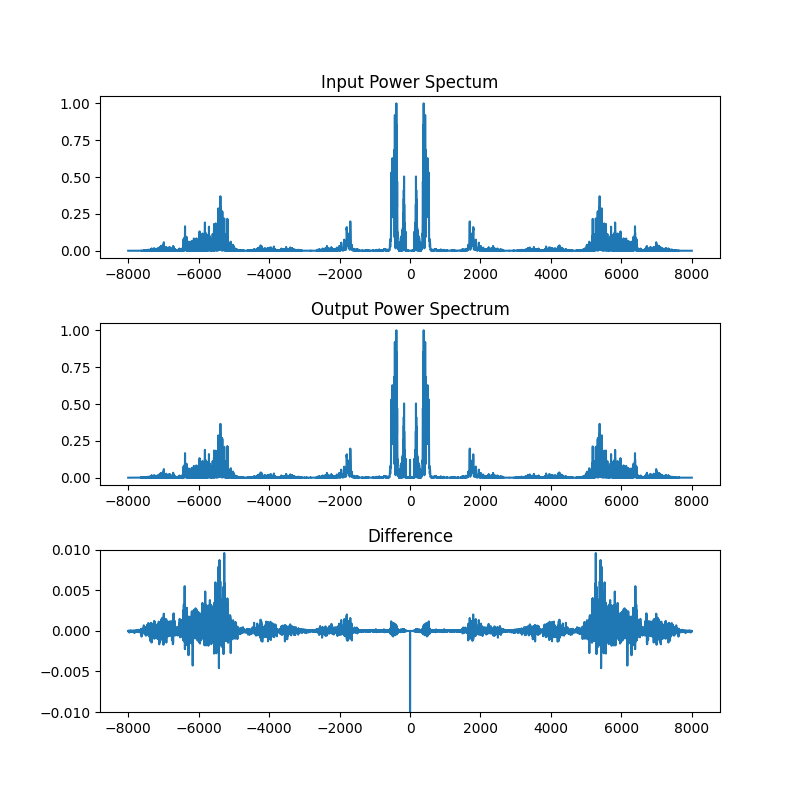
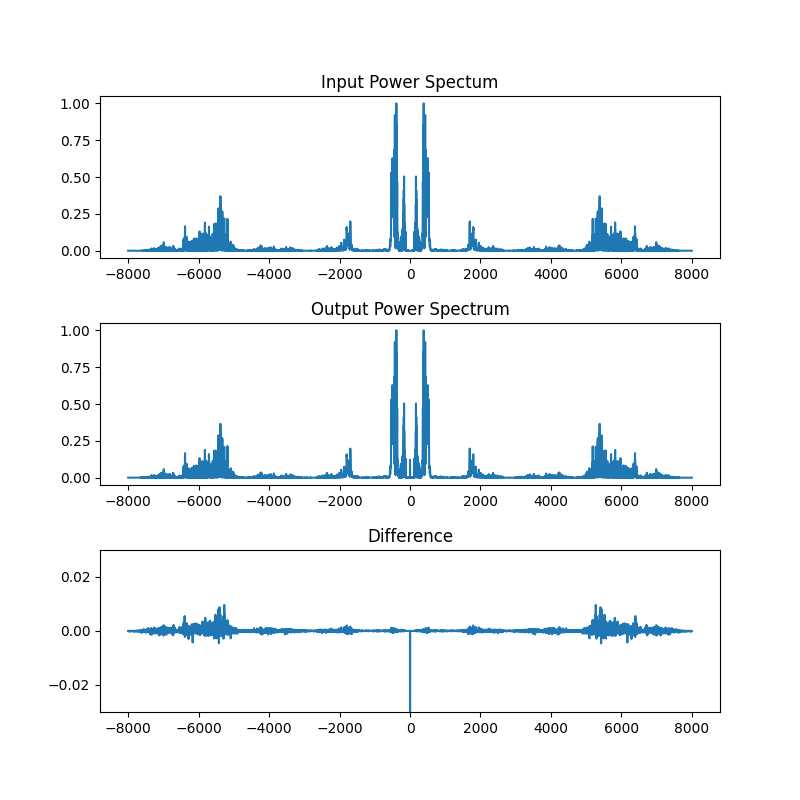
integrated PDM model into ACO pipeline

diff --git a/py/aco.py b/py/aco.py
@@ -7,12 +7,92 @@ This is used to test our custom acoustic featurization pipeline against
 the speechpy implementation used in EdgeImpulse.
 """
 !pip install speechpy
+import os
 import speechpy
 import numpy as np
 from scipy.io import wavfile
 from scipy.fft import dct
+from tqdm.auto import tqdm
 
 train_test_split = 0.75  # fraction to have as training data
+pdm_model_type = 'fast'
+# pdm_model_type = 'accurate'  # ~100ms per sample
+
+# ==================== DFE modelling ====================
+
+ratio_in = 250
+ratio_out = 250
+
+def shift_zero_to_one(x):
+    '''Shift an input signal into the range 0-1.'''
+    x = x.astype(np.float64)
+    x = x - x.min()
+    x = x / x.max()
+    return x
+
+def pcm_to_pdm_pwm(x):
+    '''Pack all ones and zeros together during upsampling when generating PDM
+    signal, effectively creating PWM. This results in much less high frequency
+    noise in the signal.'''
+    x = shift_zero_to_one(x)
+    x = x * ratio_in  # scale up by window so that value is # ones
+    x = x.astype(np.uint8)
+    repeats = np.zeros(x.size * 2, dtype=np.uint8)
+    repeats[::2] = x
+    repeats[1::2] = ratio_in - x
+    one_zero = np.ones(x.size * 2, dtype=np.uint8)
+    one_zero[1::2] = 0
+    y = np.repeat(one_zero, repeats)
+    return y
+
+def cic1(x):
+    '''First cic stage treats datatypes differently.'''
+    x = x.astype(np.int64)
+    rolled = np.roll(x, ratio_out)
+    rolled[:ratio_out] = 0
+    x = np.cumsum(x) - np.cumsum(rolled)
+    x = x - int(ratio_out/2)
+    x = x.astype(np.int8)
+    # x = x.astype(np.int16)  # if ratio is >= 256, need this to not overflow
+    return x
+
+def pcm_to_pdm(x, pdm_gen='err'):
+    '''Generate the PDM signal for the sample.'''
+    if pdm_gen == 'pwm':
+        y = pcm_to_pdm_pwm(x)
+    elif pdm_gen == 'random':
+        y = pcm_to_pdm_random(x)
+    elif pdm_gen == 'err':
+        y = pcm_to_pdm_err(x)
+    else:
+        raise ValueError('{} not known')
+    return y
+
+def pdm_to_pcm(x, n_cic):
+    x = cic1(x)
+    x = x[::ratio_out]
+    x[0] = 0
+    return x
+
+def dfe_quantized_model(x):
+    x = shift_zero_to_one(x)
+    x = x * ratio_out
+    x = x - (ratio_out / 2)
+    x = x.astype(np.int8)
+    return x
+
+def pdm_model(x_orig, model_type='fast'):
+    '''Main API interface for the pdm model.
+
+    x_orig: input 16kHz signal
+    model_type: type of PDM model
+        'fast' is fast quantization model and a worst-case scenario
+        'pwm' is the medium-accuracy model which takes ~100ms per sample
+    '''
+    if model_type == 'fast':
+        return dfe_quantized_model(x_orig)
+    x_pdm = pcm_to_pdm(x_orig, pdm_gen='pwm')
+    return pdm_to_pcm(x_pdm, 1)
 
 # parameters
 p = {'num_mfcc_cof': 13,
@@ -27,6 +107,9 @@ p = {'num_mfcc_cof': 13,
 def custom_aco(fullfname):
     # Get raw 16b audio data
     fs, signal = wavfile.read(fullfname)
+
+    # DFE quantization model
+    signal = pdm_model(signal, model_type=pdm_model_type)
 
     # Acoustic Featurization Constants
     FS = fs                                 # 16 KHz
@@ -176,7 +259,8 @@ for group in ['yes', 'unknown', 'noise']:
 n = len(all_fnames)
 print('num samples: ', n)
 all_features = np.zeros((0, 13*50))
-for fname in all_fnames:
+for i in tqdm(range(n)):
+    fname = all_fnames[i]
     features = custom_aco(fname)
     all_features = np.vstack((all_features, features))
 all_labels = np.array(all_labels)

diff --git a/py/pdm.py b/py/pdm.py
@@ -76,7 +76,6 @@ def pcm_to_pdm_err(x):
 
 def pcm_to_pdm(x, pdm_gen='err'):
     '''Generate the PDM signal for the sample.'''
-    # x = read_sample_file(sample_fname)
     if pdm_gen == 'pwm':
         y = pcm_to_pdm_pwm(x)
     elif pdm_gen == 'random':
@@ -95,8 +94,6 @@ def cic1(x):
     rolled = np.roll(x, ratio_out)
     rolled[:ratio_out] = 0
     x = np.cumsum(x) - np.cumsum(rolled)
-    print('max of cic1 out: ', x.max())
-    print('min of cic1 out: ', x.min())
     x = x - int(ratio_out/2)
     x = x.astype(np.int8)
     # x = x.astype(np.int16)  # if ratio is >= 256, need this to not overflow
@@ -143,21 +140,50 @@ def plot_power_spectrum_difference(x1, x2, dt):
     idx = np.argsort(freqs)
     plt.plot(freqs[idx], diff[idx])
     plt.title('Difference')
-    plt.ylim(-.01, .01)
+    # plt.ylim(-.01, .01)
+    plt.ylim(-.03, .03)
 
 # =========== Higher Level Functions ============
 
+def dfe_quantized_model(x):
+    '''Just expected quantization without PDM modelling. This is a fast,
+    worst-case scenario.'''
+    x = shift_zero_to_one(x)
+    x = x * ratio_out
+    x = x - (ratio_out / 2)
+    x = x.astype(np.int8)
+    return x
+
+def pdm_model(x_orig, model_type='fast'):
+    '''Main API interface for the pdm model.
+
+    x_orig: input 16kHz signal
+    model_type: type of PDM model
+        'fast' is fast quantization model and a worst-case scenario
+        'pwm' is the medium-accuracy model which takes ~100ms per sample
+    '''
+    if model_type == 'fast':
+        return dfe_quantized_model(x_orig)
+    x_pdm = pcm_to_pdm(x_orig, pdm_gen='pwm')
+    return pdm_to_pcm(x_pdm, 1)
+
 def main():
+    '''Main function for modeling and plotting the PDM interface.
+    '''
     if not os.path.isdir(OUTDIR):
         os.mkdir(OUTDIR)
     x_orig = read_sample_file(sample_fname)
-    for pdm_gen in ['err', 'pwm']:
-        x_pdm = pcm_to_pdm(x_orig, pdm_gen=pdm_gen)
+    for pdm_gen in ['err', 'pwm', 'quant']:
+        if pdm_gen != 'quant':
+            x_pdm = pcm_to_pdm(x_orig, pdm_gen=pdm_gen)
         # for n_cic in [1, 2, 4, 8]:
         for n_cic in [1]:
             x_decoded = pdm_to_pcm(x_pdm, n_cic)
-
-            fname_out = OUTDIR + '{}_cic{}_{}'.format(pdm_gen, n_cic, f_pcm_out)
+            if pdm_gen == 'quant':
+                x_decoded = dfe_quantized_model(x_orig)
+                fname_out = OUTDIR + '{}_{}'.format(pdm_gen, f_pcm_out)
+            else:
+                fname_out = OUTDIR + '{}_cic{}_{}'.format(pdm_gen, n_cic, f_pcm_out)
             if PLOT:
                 plt.figure(figsize=(8,8))
                 plt.subplots_adjust(hspace=0.4)
